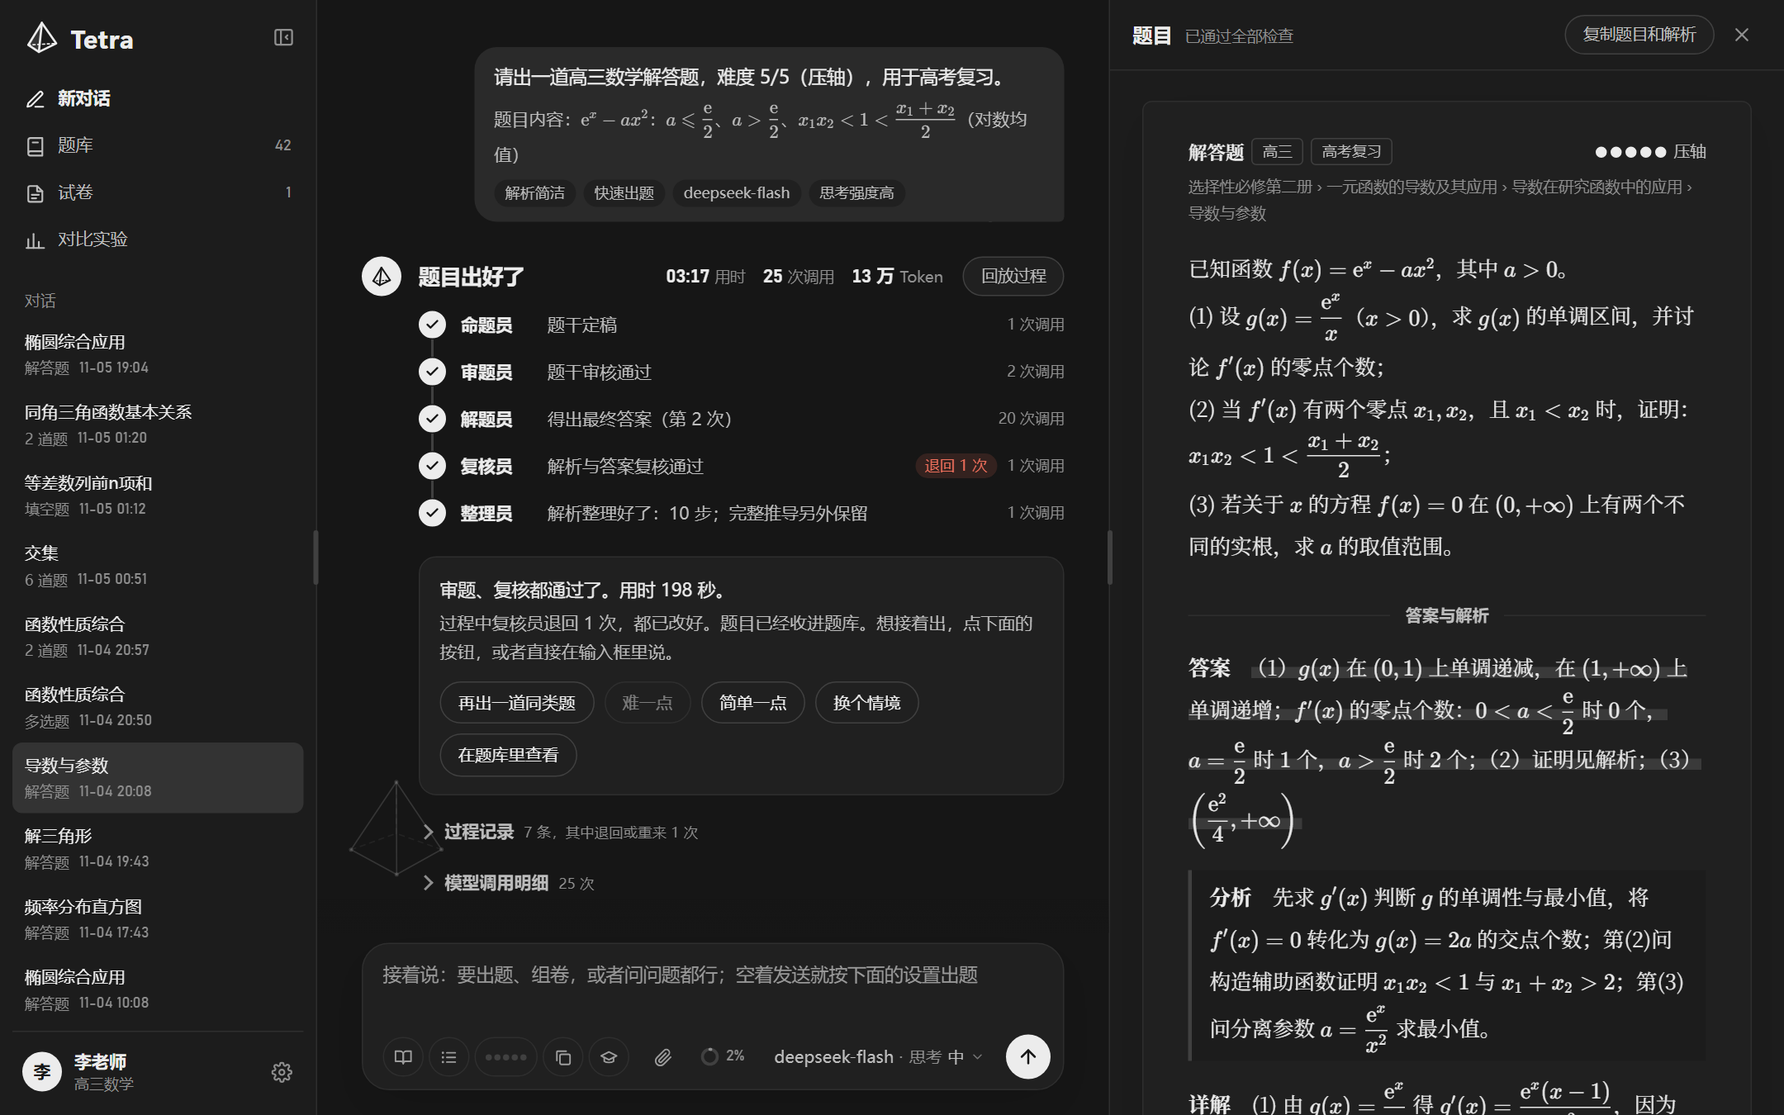
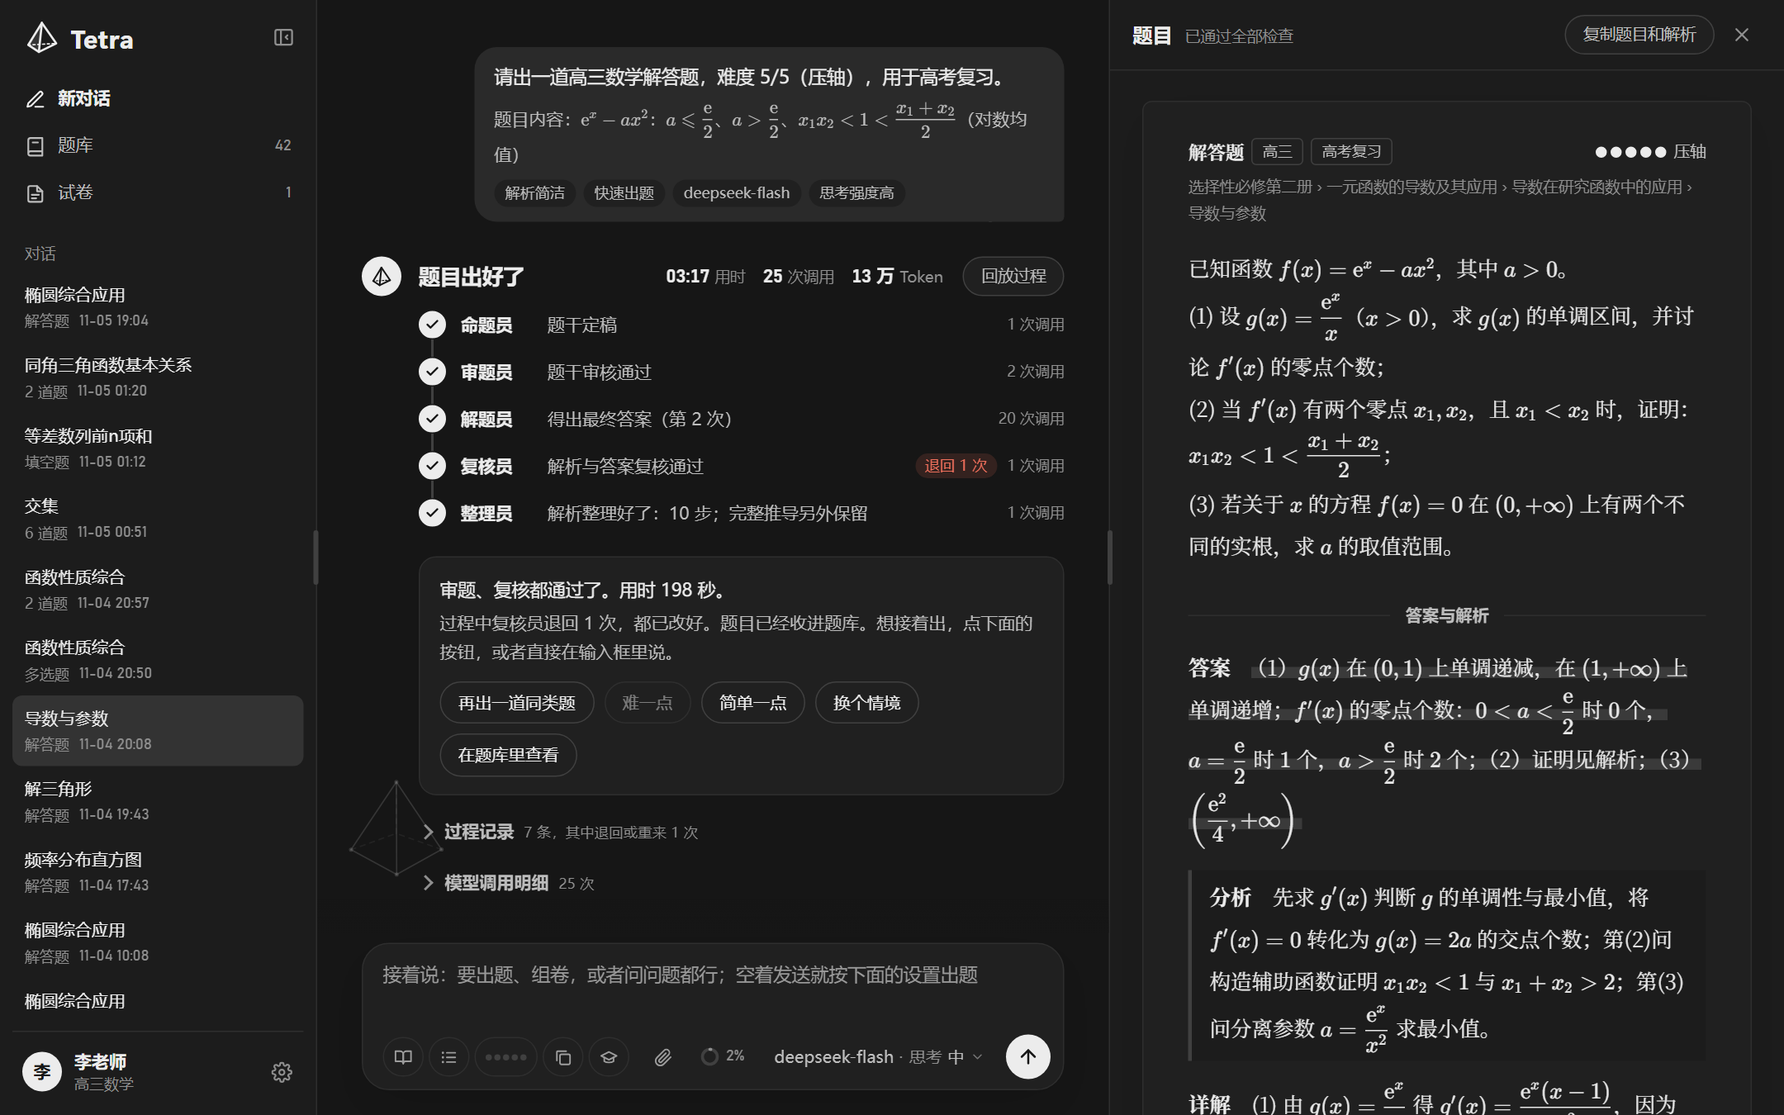
界面：去掉对比实验页，README 和文档不再介绍实验
对比实验是离线评估，不属于产品功能，界面和产品文档里都不该出现。

- 去掉左栏的“对比实验”入口和页面，连同它的样式、视图切换和英文对照
- 实验的设计和运行方法从 docs/development.md 移到 eval/README.md；README 的文档表、使用手册和架构说明不再提它
- README 的 5 张截图重拍（演示副本：假资料、假 Key），左栏不再有这一项

Changed region(s): [[0.0, 0.2178, 0.0931, 0.9022], [0.031, 0.1867, 0.062, 0.2178]]

diff --git a/web/js/i18n-en.js b/web/js/i18n-en.js
@@ -620,38 +620,10 @@ export const EN = {
 "重新出这道题": "Regenerate this question",
 "Tetra 命题智能体": "Tetra · Math Question Agent",
 "// 页面一打开就按本机记住的主题、语言上色和标注，不等个人设置读回来（免得先闪一下白底） (function () { try { var theme = localStorage.getItem('mingti.theme') || 'light'; var dark = theme === 'dark' || (theme === 'system' && window.matchMedia('(prefers-color-scheme: dark)').matches); document.documentElement.setAttribute('data-theme', dark ? 'dark' : 'light'); if (localStorage.getItem('mingti.lang') === 'en') document.documentElement.lang = 'en'; } catch (error) { document.documentElement.setAttribute('data-theme', 'light'); } })();": "// Apply theme and language on page load from local storage, without waiting for Settings to load (avoids a white flash) (function () { try { var theme = localStorage.getItem('mingti.theme') || 'light'; var dark = theme === 'dark' || (theme === 'system' && window.matchMedia('(prefers-color-scheme: dark)').matches); document.documentElement.setAttribute('data-theme', dark ? 'dark' : 'light'); if (localStorage.getItem('mingti.lang') === 'en') document.documentElement.lang = 'en'; } catch (error) { document.documentElement.setAttribute('data-theme', 'light'); } })();",
-"对比实验": "Experiments",
 "想出一道什么样的题？": "What kind of question shall we make?",
 "没想好出什么？试试模拟卷里的命题要求": "Not sure what to generate? Try requirements from mock papers",
 "换一批": "Shuffle",
 "看全部 171 条": "View all 171",
-"从 9 套模拟卷的 171 条命题要求里抽出测试集，用下面几种配置分别出题，看每加一道检查、每多试一个方案，质量和代价各变化多少。实验跑完后，结果会放在这里。": "A test set is drawn from 171 requirements across 9 mock papers. Questions are generated with each configuration below to see how quality and cost change with each added check and each extra attempt. Results will appear here once the experiments finish.",
-"配置": "Configuration",
-"包含的环节": "Included stages",
-"想回答的问题": "Question to answer",
-"状态": "Status",
-"单次生成": "Single generation",
-"只有命题": "Generate only",
-"直接让大模型出题，质量是什么水平": "What is the quality when the model generates questions directly?",
-"待运行": "Pending",
-"加审题": "Add review",
-"命题、审题、退回修改": "Generate, review, revise on return",
-"出题后先审一遍，能拦住多少有问题的题": "How many flawed questions can be caught by reviewing after generation?",
-"完整闭环": "Full loop",
-"命题、审题、解题、复核": "Generate, review, solve, audit",
-"解题后再复核，答案正确率能提高多少": "How much does answer accuracy improve by auditing after solving?",
-"加独立验算": "Add independent verification",
-"C 加验算员": "C + Verifier",
-"换个角色再独立算一遍，值不值这份开销": "Is it worth the cost to have another role independently verify?",
-"三个方案并行": "Three plans in parallel",
-"C，同时试三个方案": "C, with three plans tried simultaneously",
-"多试几个方案能省多少等待时间，多花多少 Token": "How much waiting time can be saved and how many tokens spent by trying multiple plans?",
-"怎么比": "How to compare",
-"规则检查通过率：结构、正确选项个数、干扰项这些程序能查的项目": "Rule check pass rate: structural checks a program can do, such as correct option count and distractors",
-"答案正确率：另请模型独立解 3 次取多数作为判定，再人工抽查 30 道，看这个判定靠不靠谱": "Answer accuracy: have another model independently solve 3 times and take the majority as the verdict, then manually spot-check 30 questions to see if this verdict is reliable",
-"是否符合要求：知识点、题型、难度和要求一致吗": "Requirement compliance: do topic, type, difficulty, and requirements match?",
-"人工评分：组员不知道是哪种配置出的题，直接打分": "Human rating: team members rate without knowing which configuration generated the question",
-"代价：每道题的模型调用次数、Token 和用时": "Cost: model calls, tokens, and time per question",
 "复制题目和解析": "Copy question and solution",
 "模拟卷里的 171 条命题要求": "171 requirements from mock papers",
 "保存在这台电脑上": "Saved on this computer",

diff --git a/web/index.html b/web/index.html
@@ -55,10 +55,6 @@
           <svg viewBox="0 0 24 24" fill="none" stroke="currentColor" stroke-width="2" stroke-linecap="round" stroke-linejoin="round" aria-hidden="true"><path d="M14 3H6a2 2 0 0 0-2 2v14a2 2 0 0 0 2 2h12a2 2 0 0 0 2-2V9Z"/><path d="M14 3v6h6"/><path d="M8 13h8"/><path d="M8 17h5"/></svg>
           试卷<span class="rail-count" id="paperCount"></span>
         </button>
-        <button class="rail-link" id="experimentLink" type="button">
-          <svg viewBox="0 0 24 24" fill="none" stroke="currentColor" stroke-width="2" stroke-linecap="round" aria-hidden="true"><path d="M4 20V10"/><path d="M10 20V4"/><path d="M16 20v-7"/><path d="M22 20H2"/></svg>
-          对比实验
-        </button>
       </nav>
       <h2 class="rail-title">对话</h2>
       <ul class="history-list" id="historyList"></ul>
@@ -101,29 +97,6 @@
 
           <section class="library" id="bankView" hidden></section>
           <section class="papers" id="paperView" hidden></section>
-
-          <section class="experiment" id="experiment" hidden>
-            <h1>对比实验</h1>
-            <p class="lead">从 9 套模拟卷的 171 条命题要求里抽出测试集，用下面几种配置分别出题，看每加一道检查、每多试一个方案，质量和代价各变化多少。实验跑完后，结果会放在这里。</p>
-            <table class="config-table">
-              <thead><tr><th>配置</th><th>包含的环节</th><th>想回答的问题</th><th>状态</th></tr></thead>
-              <tbody>
-                <tr><td><span class="key">A</span>单次生成</td><td>只有命题</td><td>直接让大模型出题，质量是什么水平</td><td><span class="pill">待运行</span></td></tr>
-                <tr><td><span class="key">B</span>加审题</td><td>命题、审题、退回修改</td><td>出题后先审一遍，能拦住多少有问题的题</td><td><span class="pill">待运行</span></td></tr>
-                <tr><td><span class="key">C</span>完整闭环</td><td>命题、审题、解题、复核</td><td>解题后再复核，答案正确率能提高多少</td><td><span class="pill">待运行</span></td></tr>
-                <tr><td><span class="key">D</span>加独立验算</td><td>C 加验算员</td><td>换个角色再独立算一遍，值不值这份开销</td><td><span class="pill">待运行</span></td></tr>
-                <tr><td><span class="key">E</span>三个方案并行</td><td>C，同时试三个方案</td><td>多试几个方案能省多少等待时间，多花多少 Token</td><td><span class="pill">待运行</span></td></tr>
-              </tbody>
-            </table>
-            <h2>怎么比</h2>
-            <ul class="metric-list">
-              <li>规则检查通过率：结构、正确选项个数、干扰项这些程序能查的项目</li>
-              <li>答案正确率：另请模型独立解 3 次取多数作为判定，再人工抽查 30 道，看这个判定靠不靠谱</li>
-              <li>是否符合要求：知识点、题型、难度和要求一致吗</li>
-              <li>人工评分：组员不知道是哪种配置出的题，直接打分</li>
-              <li>代价：每道题的模型调用次数、Token 和用时</li>
-            </ul>
-          </section>
         </div>
         <div class="dock" id="dock"></div>
       </section>

diff --git a/web/app.css b/web/app.css
@@ -126,7 +126,7 @@ body.resizing iframe { pointer-events: none; }
 .geometry { position: absolute; inset: 0; z-index: 0; pointer-events: none; transition: opacity 0.6s; }
 body:not(.is-idle) .geometry { opacity: 0.45; }
 .thread-scroll { position: relative; z-index: 1; flex: 1; min-height: 0; overflow: auto; padding: 34px 36px 16px; }
-.hero, .conversation, .experiment { max-width: 760px; margin: 0 auto; }
+.hero, .conversation { max-width: 760px; margin: 0 auto; }
 .hero { max-width: 820px; }
 .dock { position: relative; z-index: 1; flex: none; padding: 8px 36px 20px; }
 .dock::before {
@@ -1082,20 +1082,6 @@ body.is-idle .hero { margin-block: auto; }
 .paper-frame { display: block; width: 100%; height: 100%; border: 0; background: var(--frame-bg); }
 .panel-actions { display: flex; flex-wrap: wrap; align-items: center; gap: 6px; }
 .panel-actions:empty { display: none; }
-
-/* ---------- 对比实验 ---------- */
-.experiment h1 { margin: 0 0 8px; font: 600 30px/1.3 var(--font-serif); }
-.experiment .lead { margin: 0 0 22px; max-width: 40em; color: var(--ink-2); }
-.config-table { width: 100%; border-collapse: collapse; background: var(--surface); border-radius: 12px; overflow: hidden; box-shadow: 0 0 0 1px var(--line); }
-.config-table th, .config-table td { padding: 11px 14px; border-bottom: 1px solid var(--line); text-align: left; vertical-align: top; font-size: 14px; }
-.config-table tr:last-child td { border-bottom: 0; }
-.config-table th { background: var(--rail); font-size: 12.5px; font-weight: 600; color: var(--ink-3); }
-.config-table td:first-child { white-space: nowrap; }
-.config-table .key { margin-right: 6px; font: 700 15px/1 var(--font-num); }
-.experiment h2 { margin: 28px 0 8px; font-size: 18px; font-weight: 600; }
-.metric-list { margin: 0; padding-left: 1.2em; color: var(--ink-2); }
-.metric-list li { margin-bottom: 4px; }
-.pill { padding: 2px 10px; border-radius: 999px; background: var(--sunk); font-size: 12px; color: var(--ink-3); white-space: nowrap; }
 
 /* ---------- 模拟卷要求 ---------- */
 .blueprints {

diff --git a/web/js/app.js b/web/js/app.js
@@ -115,7 +115,6 @@ const ui = {
   dock: $('#dock'),
   hero: $('#hero'),
   conversation: $('#conversation'),
-  experiment: $('#experiment'),
   threadScroll: $('#threadScroll'),
   sheetPanel: $('#sheetPanel'),
   sheetScroll: $('#sheetScroll'),
@@ -1132,7 +1131,6 @@ function setMode(mode) {
   ui.body.classList.toggle('is-idle', idle);
   ui.hero.hidden = !idle;
   ui.conversation.hidden = !chat;
-  ui.experiment.hidden = mode !== 'experiment';
   ui.bankView.hidden = mode !== 'bank';
   ui.paperView.hidden = mode !== 'papers';
   ui.dock.hidden = !(idle || chat);
@@ -1156,7 +1154,6 @@ function setMode(mode) {
   }
   closeRail();
   renderContext();
-  $('#experimentLink').setAttribute('aria-current', mode === 'experiment' ? 'page' : 'false');
   $('#bankLink').setAttribute('aria-current', mode === 'bank' ? 'page' : 'false');
   $('#papersLink').setAttribute('aria-current', mode === 'papers' ? 'page' : 'false');
   if (!chat) stopReplay();
@@ -2834,7 +2831,6 @@ function bindEvents() {
     ui.prompt.focus();
     if (state.job) toast('上一道题还在出，出好以后才能开始新的一道');
   });
-  $('#experimentLink').addEventListener('click', () => setMode('experiment'));
   $('#bankLink').addEventListener('click', () => openBank());
   $('#papersLink').addEventListener('click', () => openPapers());
   $('#menuToggle').addEventListener('click', () => {

diff --git a/eval/README.md b/eval/README.md
@@ -1,0 +1,37 @@
+# 对比实验
+
+这个目录是离线的对比实验：用同一批命题要求跑不同的出题流程配置，比较交付率、答案正确率、调用次数、Token、用时和费用，看每个环节值不值得保留。它不属于 Tetra 的产品功能，界面里没有入口，README 和 `docs/` 也不介绍它。
+
+| 文件 | 内容 |
+|---|---|
+| `ablation.py` | 按各种配置出题 |
+| `judge.py` | 评判出成的题 |
+| `report.py` | 汇总出表和图，抽题给人工核对 |
+| `common.py` | 共用部分 |
+| `results/` | 实验结果，按测试集分目录 |
+
+## 设计
+
+- **基线**：Z 直接提问。把同一条出题要求原样发给同一个模型（同样开思考），只规定按 JSON 返回题干、选项、答案和解析，相当于直接在对话框里让大模型出题。
+- **结构对比**：A 只有命题员 → B 加审题员 → C 加解题员、复核员（完整闭环，就是界面上默认的出题方式）→ D 再加验算员。
+- **机制对比**：在 C 上每次关掉一个机制，即思考模式、先构造后成题、答案闸门、关键结果共享、审题答案交叉核对、定点修改（`C-reroll`：退回后整份重写，到上限算失败）。开关在 `mingti/question_authoring/providers.py` 的 `PipelineSwitches` 里，默认全开，和界面出题一样。用 `--configs C-gate,C-xcheck` 选择要跑的配置。
+- **测试集**：从 `data/blueprint_specs.json` 按题型和难度分层抽题。`pilot` 10 道，`small` 30 道（4、5 星 16 道），`full` 60 道；小的集合都包含在大的里。
+- **判分**：评判模型只看题面独立解 3 次，多数表决判答案对错，同时看考点和难度是否符合要求。评判默认用 `deepseek-flash`；它和出题是同一个模型时可能犯同样的错，所以另抽题目人工核对，报告两者的一致率。人工核对是盲审：看题的表里没有配置名称和评判结论，顺序打乱。
+- **版本**：每条结果记下 git 提交号和提示词版本；出题流程、实验脚本或测试集有没提交的改动时，提交号后面带 `-dirty`。正式跑之前先提交，跑的过程中不改出题流程。
+
+## 运行
+
+在项目目录下运行（出题和评判用项目的 `.venv`，汇总用装了 matplotlib 的 Python）：
+
+```bash
+.venv\Scripts\python eval\ablation.py small --budget 3
+.venv\Scripts\python eval\judge.py small
+python eval\report.py small --audit 30
+```
+
+`small` 默认跑 7 种配置：Z、A、B、C、D、C 关思考模式、C 关先构造后成题，共 210 次出题。依次是出题、评判出成的题、汇总出表和图，并抽 30 道题给人工核对：`human_audit.md` 看题，结论填进 `human_audit.csv`；每个编号对应哪次出题、评判怎么判的在 `human_audit_key.csv`，填完再看。再运行一次 `report.py` 就会算出一致率。已经填了结论时 `--audit` 不会覆盖，确实要重抽加 `--audit-force`。
+
+- `--budget 3` 表示花到 3 美元（按闲时价算）就不再开始新的出题。
+- 结果都在 `eval/results/`，不写应用自己的命题记录和题库。
+- 中途停了（包括模型账户余额不足、返回 HTTP 402 时脚本自己停下），再运行同一条命令会接着跑没完成的。
+- 实验脚本的 API Key 读的是 `.env`，不是界面里配置的模型服务。

diff --git a/docs/development.md b/docs/development.md
@@ -41,29 +41,3 @@
 ## 专题识别模型
 
 `data/topic_model.json.gz` 是离线训练后导出的专题识别模型：词表、idf、各专题的系数和两个阈值，不含任何训练题目，`mingti/topic_model.py` 只用标准库读取和计算。训练数据是讲义题库，不随仓库发布；换了训练数据或者改了文字预处理（`normalize`），要重新导出这个文件，并保证两边的 `normalize` 一致。
-
-## 流程评测
-
-`eval/` 用同一批命题要求跑不同的流程配置，比较交付率、答案正确率、调用次数、Token、用时和费用，用来判断每个环节值不值得保留。
-
-- **基线**：Z 直接提问。把同一条出题要求原样发给同一个模型（同样开思考），只规定按 JSON 返回题干、选项、答案和解析，相当于直接在对话框里让大模型出题。
-- **结构对比**：A 只有命题员 → B 加审题员 → C 加解题员、复核员（完整闭环，就是界面上默认的出题方式）→ D 再加验算员。
-- **机制对比**：在 C 上每次关掉一个机制，即思考模式、先构造后成题、答案闸门、关键结果共享、审题答案交叉核对、定点修改（`C-reroll`：退回后整份重写，到上限算失败）。开关在 `mingti/question_authoring/providers.py` 的 `PipelineSwitches` 里，默认全开，和界面出题一样。用 `--configs C-gate,C-xcheck` 选择要跑的配置。
-- **测试集**：从 `data/blueprint_specs.json` 按题型和难度分层抽题。`pilot` 10 道，`small` 30 道（4、5 星 16 道），`full` 60 道；小的集合都包含在大的里。
-- **判分**：评判模型只看题面独立解 3 次，多数表决判答案对错，同时看考点和难度是否符合要求。评判默认用 `deepseek-flash`；它和出题是同一个模型时可能犯同样的错，所以另抽题目人工核对，报告两者的一致率。人工核对是盲审：看题的表里没有配置名称和评判结论，顺序打乱。
-- **版本**：每条结果记下 git 提交号和提示词版本；出题流程、实验脚本或测试集有没提交的改动时，提交号后面带 `-dirty`。正式跑之前先提交，跑的过程中不改出题流程。
-
-在项目目录下运行（出题和评判用项目的 `.venv`，汇总用装了 matplotlib 的 Python）：
-
-```bash
-.venv\Scripts\python eval\ablation.py small --budget 3
-.venv\Scripts\python eval\judge.py small
-python eval\report.py small --audit 30
-```
-
-`small` 默认跑 7 种配置：Z、A、B、C、D、C 关思考模式、C 关先构造后成题，共 210 次出题。依次是出题、评判出成的题、汇总出表和图，并抽 30 道题给人工核对：`human_audit.md` 看题，结论填进 `human_audit.csv`；每个编号对应哪次出题、评判怎么判的在 `human_audit_key.csv`，填完再看。再运行一次 `report.py` 就会算出一致率。已经填了结论时 `--audit` 不会覆盖，确实要重抽加 `--audit-force`。
-
-- `--budget 3` 表示花到 3 美元（按闲时价算）就不再开始新的出题。
-- 结果都在 `eval/results/`，不写应用自己的命题记录和题库。
-- 中途停了（包括模型账户余额不足、返回 HTTP 402 时脚本自己停下），再运行同一条命令会接着跑没完成的。
-- 评测脚本的 Key 读的是 `.env`。

diff --git a/docs/architecture.md b/docs/architecture.md
@@ -93,9 +93,8 @@ FastAPI  mingti/server.py
 | `mingti/launcher.py` `run.py` `pyproject.toml` | `tetra` 启动命令：首次运行时准备 `.venv`，然后启动服务、打开浏览器 |
 | `web/` | 界面：`index.html`、`app.css`，`js/` 下按功能分文件；KaTeX 在 `vendor/` |
 | `data/curriculum/` | 两版教材的知识树 CSV |
-| `data/blueprint_specs.json` | 171 条示例命题要求：首页示例和评测用的测试集 |
+| `data/blueprint_specs.json` | 171 条示例命题要求，首页的示例从这里抽 |
 | `tools/` | `build_i18n.py` 生成英文界面对照表；`build_blueprint_specs.py` 生成上面的 JSON（公式写法在 `blueprint_tex.json`） |
-| `eval/` | 流程评测：`ablation.py` 出题、`judge.py` 评判、`report.py` 汇总出表和图，`common.py` 是共用部分 |
 
 ## API 概览
 

diff --git a/docs/user-guide.md b/docs/user-guide.md
@@ -54,7 +54,7 @@ python -m venv .venv
 
 三栏布局，分隔条可以左右拖动，双击恢复默认宽度。
 
-- **左栏**：新对话、题库、试卷、对比实验、对话列表；左下角是个人设置。在对话上点右键可以：
+- **左栏**：新对话、题库、试卷、对话列表；左下角是个人设置。在对话上点右键可以：
   - 重命名；
   - 置顶：标题前出现小图钉，排在最前；
   - 删除：在菜单里再确认一次。删掉的是这个对话的记录，出好的题和组好的试卷都还在；题出得不好时，可以勾选“同时从题库删掉这里出的题”一起删（已经组进试卷的题会保留）。还有题在出的对话不能删。

diff --git a/README.md b/README.md
@@ -196,7 +196,7 @@ tetra
 |---|---|
 | [使用手册](docs/user-guide.md) | 启动选项、模型配置、出题、组卷、识题和各项设置 |
 | [架构说明](docs/architecture.md) | 系统结构、出题流水线、项目目录和 API 概览 |
-| [开发指南](docs/development.md) | 本地开发、界面翻译、运行数据和流程评测 |
+| [开发指南](docs/development.md) | 本地开发、界面翻译、运行数据和专题识别模型 |
 
 ## 参与贡献
 
